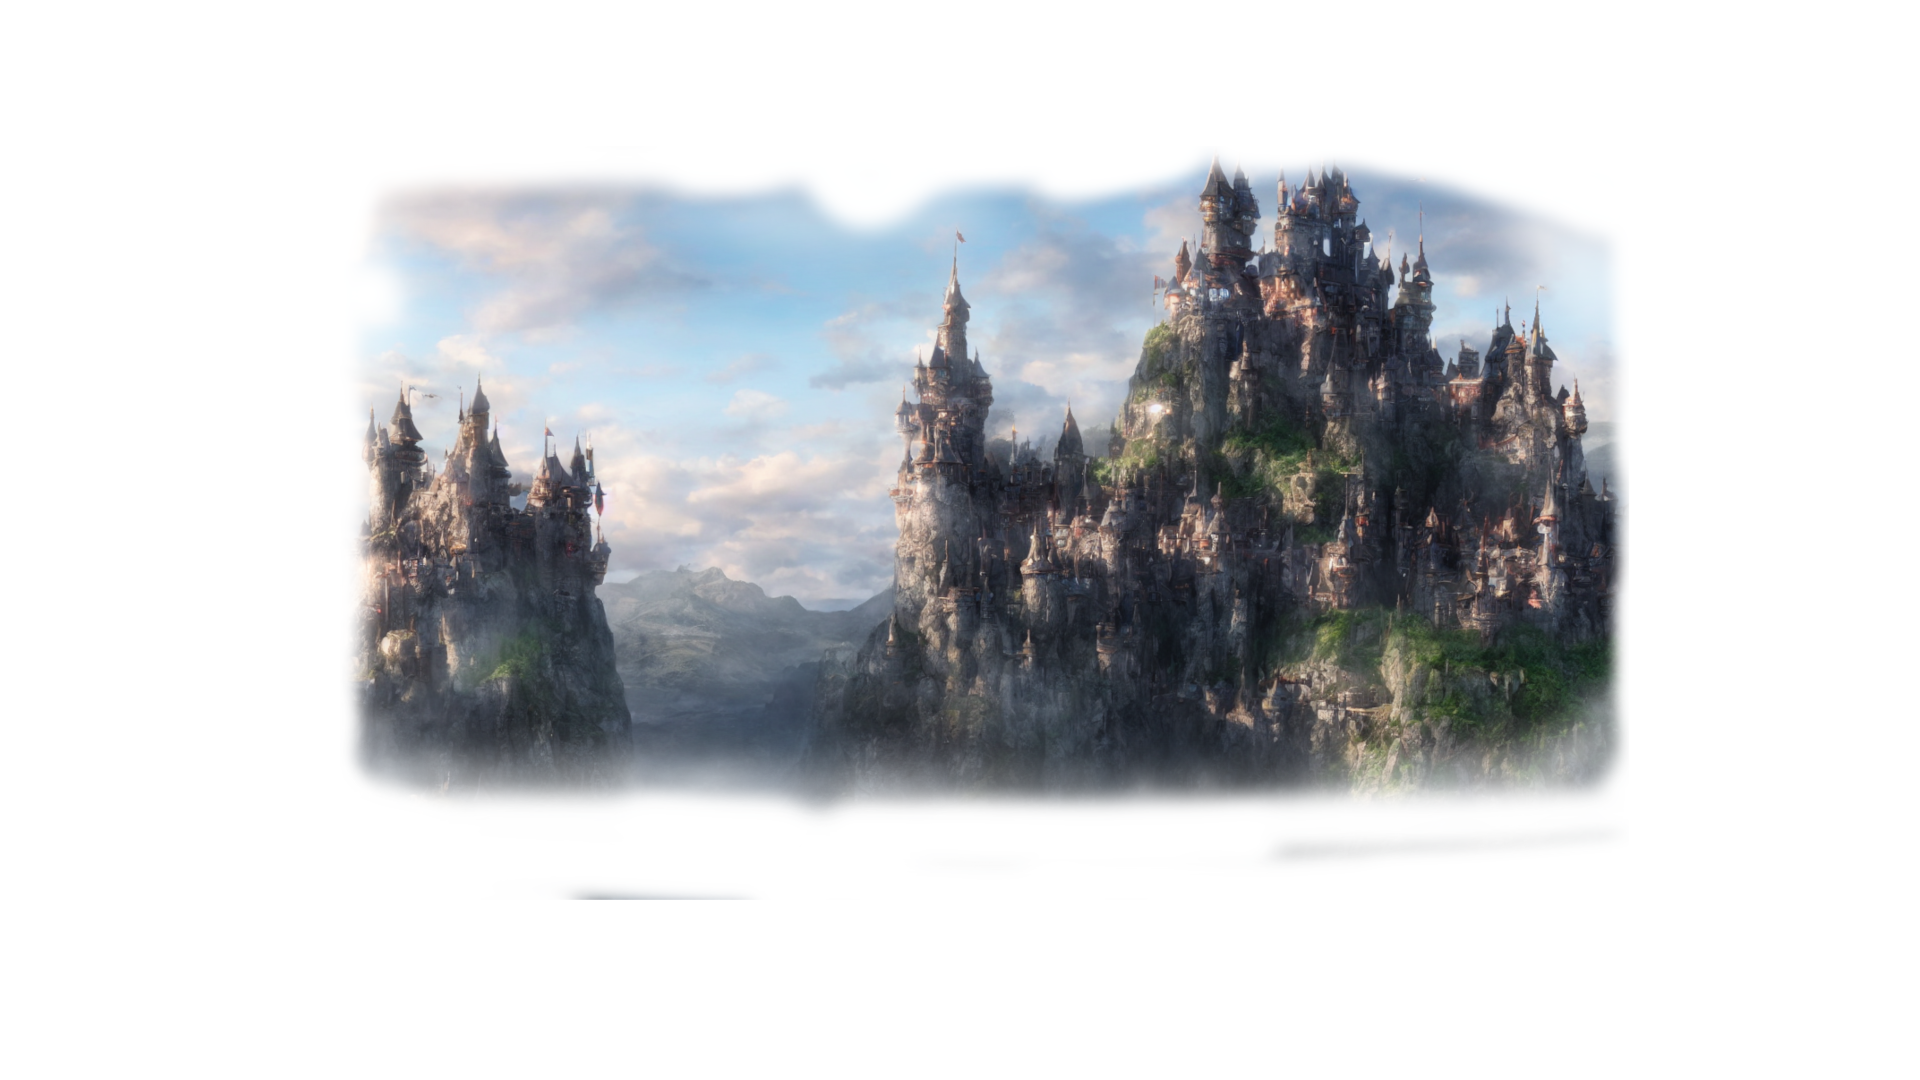
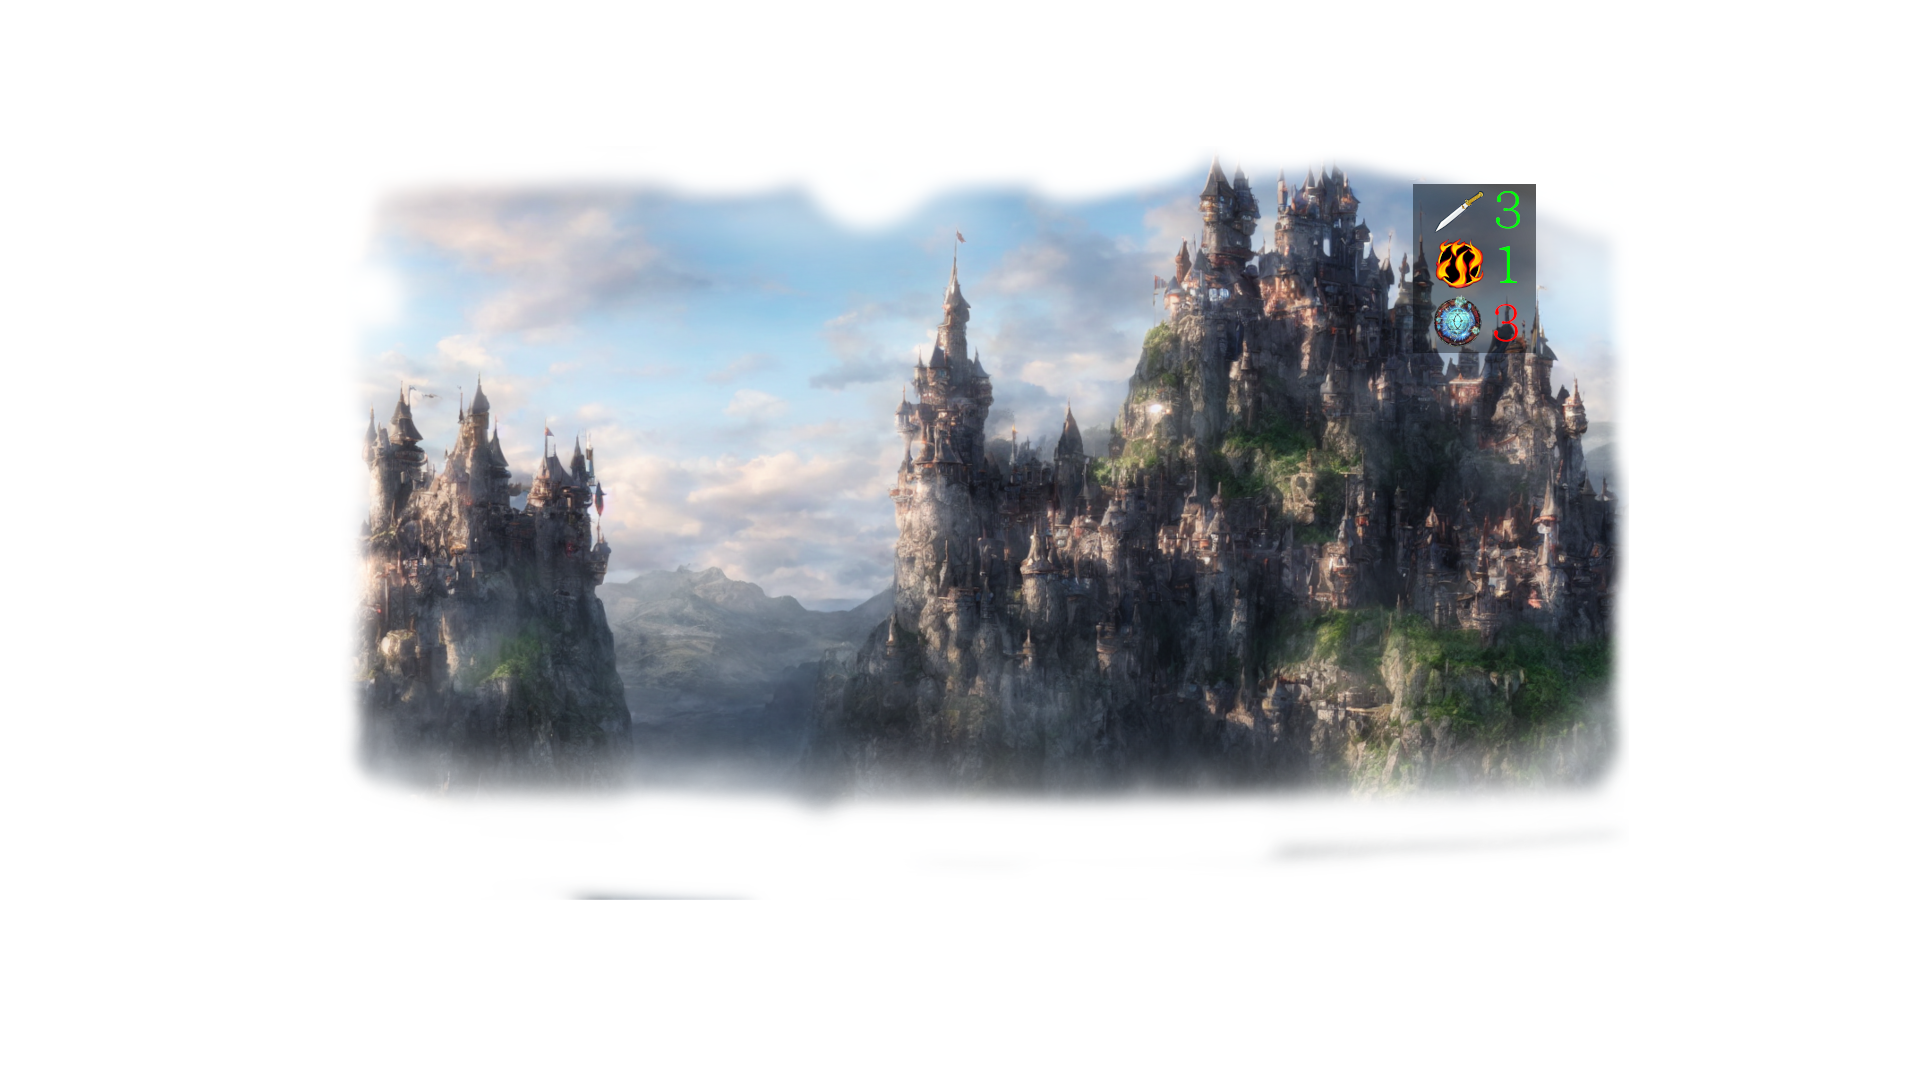
The computer now has cards. Some debug options were implemented to show card's porterties and the computer's cards

Changed region(s): [[0.7188, 0.1528, 0.8125, 0.3361]]

diff --git a/main.c b/main.c
@@ -29,6 +29,12 @@ typedef struct Card {
     bool played;
     int rarity;
     int cast;
+    int strength;
+    int fire;
+    int magic;
+    int defence;
+    int fire_defence;
+    int magic_defence;
 } Card;
 
 //------------------------------------------------------------------------------------
@@ -41,13 +47,16 @@ const float heightOfCards = 214.0f;
 const float widthOfCards = 131.0f;
 Card cardCollection[21]; // This variable contains all cards
 
-void initializeCards(Card *, int, Card *);
-void randomSelectDeckCards(Card *, int);
+void initializeCards(Card *, Card *, int, Card *);
+void setCastProperties();
+void randomSelectDeckCards(Card *, Card *, int);
 void resetCardPositionAndSize(Card *, int);
 int drawPlayerHand(Card *, int); // Maybe use variable names here to make the code different?
 bool drawHoverOverCards(Card, float);
 void reorganizeCardsInHand(Card *, int);
 void drawPlayedCards(Card *, int);
+void displayCardProperties(Card);
+void displayComputersCards(Card *, int);
 
 int main(void)
 {
@@ -102,7 +111,7 @@ int main(void)
     // Rarity 1: gray, 2: green, 3: blue, 4: purple, 5: gold, 6: hero
     // Casts: 1: ghost, 2: knight, 3: ork, 4: wizard, 5: hero
     Texture2D logoScreenTexture = LoadTexture("images/misc/loading_screen.png");
-
+    Texture2D menuTexture = LoadTexture("images/background_map/menu.png");
     // Setting up variables for the background
     Texture2D backgroundTexture = LoadTexture("images/background_map/background.png");
     Rectangle backgroundSrcRec = (Rectangle){
@@ -125,12 +134,12 @@ int main(void)
     // Setting up background music
     Music music = LoadMusicStream("audio/background_music.mp3");
 
-    Card cardsOfPlayer[numberOfCards];
+    Card cardsOfPlayer[numberOfCards], cardsOfComputer[numberOfCards];
     Card playedCardsOfPlayer[numberOfCards];
     int numberOfPlayedCards = -1;
 
-    initializeCards(cardsOfPlayer, numberOfCards, playedCardsOfPlayer);
-    randomSelectDeckCards(cardsOfPlayer, numberOfCards);
+    initializeCards(cardsOfPlayer, cardsOfComputer, numberOfCards, playedCardsOfPlayer);
+    randomSelectDeckCards(cardsOfPlayer, cardsOfComputer, numberOfCards);
 
     SetTargetFPS(60);               // Set desired framerate (frames-per-second)
     //--------------------------------------------------------------------------------------
@@ -206,9 +215,7 @@ int main(void)
                 case TITLE:
                 {
                     // TODO: Draw TITLE screen here!
-                    DrawRectangle(0, 0, screenWidth, screenHeight, GREEN);
-                    DrawText("TITLE SCREEN", 20, 20, 40, DARKGREEN);
-                    DrawText("PRESS ENTER or TAP to JUMP to GAMEPLAY SCREEN", 120, 220, 20, DARKGREEN);
+                    DrawTexturePro(menuTexture, backgroundSrcRec, backgroundDestRec, backgroundOrigin, 0.0f, WHITE);
 
                 } break;
                 case GAMEPLAY:
@@ -216,6 +223,7 @@ int main(void)
                     // TODO: Draw the hand of the player with this function
                     DrawTexturePro(backgroundTexture, backgroundSrcRec, backgroundDestRec, backgroundOrigin, 0.0f, WHITE);
                     DrawTexturePro(mapTexture, backgroundSrcRec, backgroundDestRec, backgroundOrigin, 0.0f, WHITE);
+                    displayComputersCards(cardsOfComputer, numberOfCards);
                     int selected_card = drawPlayerHand(cardsOfPlayer, numberOfCardsInPlayerHand);
                     if(selected_card > -1){
                         // If the selected cards was clicked, decrease the value of the number of cards in the player's hand
@@ -268,7 +276,7 @@ int main(void)
     return 0;
 }
 
-void initializeCards(Card *cardsOfPlayer, int numberOfCards, Card *playedCardsOfPlayer){
+void initializeCards(Card *cardsOfPlayer, Card *cardsOfComputer, int numberOfCards, Card *playedCardsOfPlayer){
     int index = 0;
     // Loading the textures of the cards
     for(int rarity = 1; rarity <= 5; rarity++){
@@ -318,16 +326,208 @@ void initializeCards(Card *cardsOfPlayer, int numberOfCards, Card *playedCardsOf
     {
         // Initializing every card as unplayed (just in case)
         cardsOfPlayer[i].played = false;
+        cardsOfComputer[i].played = false;
         playedCardsOfPlayer[i].played = false;
     }
-    
+    setCastProperties(numberOfCards);
 }
 
-void randomSelectDeckCards(Card *cardsOfPlayer, int numberOfCards){
+void setCastProperties(){
+    // Initializing the properties of the cards
+    // Gray ghost
+    cardCollection[0].strength = 0;
+    cardCollection[0].fire = 6;
+    cardCollection[0].magic = 3;
+    cardCollection[0].defence = 0;
+    cardCollection[0].fire_defence = 6;
+    cardCollection[0].magic_defence = 1;
+    // Gray knight
+    cardCollection[1].strength = 6;
+    cardCollection[1].fire = 1;
+    cardCollection[1].magic = 0;
+    cardCollection[1].defence = 6;
+    cardCollection[1].fire_defence = 1;
+    cardCollection[1].magic_defence = 0;
+    // Gray orc
+    cardCollection[2].strength = 4;
+    cardCollection[2].fire = 2;
+    cardCollection[2].magic = 1;
+    cardCollection[2].defence = 4;
+    cardCollection[2].fire_defence = 0;
+    cardCollection[2].magic_defence = 1;
+    // Gray wizard
+    cardCollection[3].strength = 0;
+    cardCollection[3].fire = 3;
+    cardCollection[3].magic = 6;
+    cardCollection[3].defence = 0;
+    cardCollection[3].fire_defence = 1;
+    cardCollection[3].magic_defence = 6;
+
+    // Green ghost
+    cardCollection[4].strength = 0;
+    cardCollection[4].fire = 7;
+    cardCollection[4].magic = 4;
+    cardCollection[4].defence = 0;
+    cardCollection[4].fire_defence = 7;
+    cardCollection[4].magic_defence = 2;
+    // Green knight
+    cardCollection[5].strength = 7;
+    cardCollection[5].fire = 1;
+    cardCollection[5].magic = 0;
+    cardCollection[5].defence = 7;
+    cardCollection[5].fire_defence = 1;
+    cardCollection[5].magic_defence = 0;
+    // Green orc
+    cardCollection[6].strength = 5;
+    cardCollection[6].fire = 3;
+    cardCollection[6].magic = 2;
+    cardCollection[6].defence = 5;
+    cardCollection[6].fire_defence = 0;
+    cardCollection[6].magic_defence = 2;
+    // Green wizard
+    cardCollection[7].strength = 0;
+    cardCollection[7].fire = 4;
+    cardCollection[7].magic = 7;
+    cardCollection[7].defence = 0;
+    cardCollection[7].fire_defence = 2;
+    cardCollection[7].magic_defence = 7;
+
+    // Blue ghost
+    cardCollection[8].strength = 0;
+    cardCollection[8].fire = 8;
+    cardCollection[8].magic = 5;
+    cardCollection[8].defence = 0;
+    cardCollection[8].fire_defence = 8;
+    cardCollection[8].magic_defence = 2;
+    // Blue knight
+    cardCollection[9].strength = 8;
+    cardCollection[9].fire = 1;
+    cardCollection[9].magic = 0;
+    cardCollection[9].defence = 8;
+    cardCollection[9].fire_defence = 1;
+    cardCollection[9].magic_defence = 0;
+    // Blue orc
+    cardCollection[10].strength = 6;
+    cardCollection[10].fire = 4;
+    cardCollection[10].magic = 3;
+    cardCollection[10].defence = 6;
+    cardCollection[10].fire_defence = 0;
+    cardCollection[10].magic_defence = 3;
+    // Blue wizard
+    cardCollection[11].strength = 0;
+    cardCollection[11].fire = 5;
+    cardCollection[11].magic = 8;
+    cardCollection[11].defence = 0;
+    cardCollection[11].fire_defence = 2;
+    cardCollection[11].magic_defence = 8;
+
+    // Purple ghost
+    cardCollection[12].strength = 0;
+    cardCollection[12].fire = 9;
+    cardCollection[12].magic = 6;
+    cardCollection[12].defence = 0;
+    cardCollection[12].fire_defence = 9;
+    cardCollection[12].magic_defence = 3;
+    // Purple knight
+    cardCollection[13].strength = 9;
+    cardCollection[13].fire = 2;
+    cardCollection[13].magic = 0;
+    cardCollection[13].defence = 9;
+    cardCollection[13].fire_defence = 2;
+    cardCollection[13].magic_defence = 1;
+    // Purple orc
+    cardCollection[14].strength = 7;
+    cardCollection[14].fire = 5;
+    cardCollection[14].magic = 4;
+    cardCollection[14].defence = 7;
+    cardCollection[14].fire_defence = 1;
+    cardCollection[14].magic_defence = 4;
+    // Purple wizard
+    cardCollection[15].strength = 0;
+    cardCollection[15].fire = 6;
+    cardCollection[15].magic = 9;
+    cardCollection[15].defence = 0;
+    cardCollection[15].fire_defence = 3;
+    cardCollection[15].magic_defence = 9;
+
+    // Gold ghost
+    cardCollection[16].strength = 0;
+    cardCollection[16].fire = 10;
+    cardCollection[16].magic = 7;
+    cardCollection[16].defence = 0;
+    cardCollection[16].fire_defence = 10;
+    cardCollection[16].magic_defence = 3;
+    // Gold knight
+    cardCollection[17].strength = 10;
+    cardCollection[17].fire = 2;
+    cardCollection[17].magic = 1;
+    cardCollection[17].defence = 10;
+    cardCollection[17].fire_defence = 2;
+    cardCollection[17].magic_defence = 2;
+    // Gold orc
+    cardCollection[18].strength = 8;
+    cardCollection[18].fire = 6;
+    cardCollection[18].magic = 5;
+    cardCollection[18].defence = 8;
+    cardCollection[18].fire_defence = 2;
+    cardCollection[18].magic_defence = 5;
+    // Gold wizard
+    cardCollection[19].strength = 0;
+    cardCollection[19].fire = 7;
+    cardCollection[19].magic = 10;
+    cardCollection[19].defence = 0;
+    cardCollection[19].fire_defence = 3;
+    cardCollection[19].magic_defence = 10;
+
+    // Hero
+    cardCollection[20].strength = 10;
+    cardCollection[20].fire = 10;
+    cardCollection[20].magic = 10;
+    cardCollection[20].defence = 10;
+    cardCollection[20].fire_defence = 10;
+    cardCollection[20].magic_defence = 10;
+}
+
+void displayCardProperties(Card cardToDisplay){
+    // This function is to display the given card's properties for debug purposes
+    DrawText(TextFormat("Strength: %d", cardToDisplay.strength), 0, 0, 30, RED);
+    DrawText(TextFormat("Fire: %d", cardToDisplay.fire), 0, 30, 30, RED);
+    DrawText(TextFormat("Magic: %d", cardToDisplay.magic), 0, 60, 30, RED);
+    DrawText(TextFormat("Defence: %d", cardToDisplay.defence), 0, 90, 30, RED);
+    DrawText(TextFormat("Fire defence: %d", cardToDisplay.fire_defence), 0, 120, 30, RED);
+    DrawText(TextFormat("Magic defence: %d", cardToDisplay.magic_defence), 0, 150, 30, RED);
+}
+
+void displayComputersCards(Card *cardsOfComputer, int numberOfCards){
+    // FOR DEBUG PURPOSES
+    // Draw the computer's cards
+    for(int i = 0; i < numberOfCards; i++){
+        cardsOfComputer[i].outline.y = 0.0f;
+        cardsOfComputer[i].outline.x = (float) i * widthOfCards + 500.0f;
+        DrawTexturePro(cardsOfComputer[i].texture, cardsOfComputer[i].source, cardsOfComputer[i].outline, cardsOfComputer[i].origin, 0.0f, WHITE);
+    }
+}
+
+void randomSelectDeckCards(Card *cardsOfPlayer, Card *cardsOfComputer, int numberOfCards){
+    int sumOfPlayerCards = 0, sumOfComputerCards = 0;
+    // Select cards for the player
     for(int i = 0; i < numberOfCards; i++){
         // The rarest card it can draw is blue
         int randomIndex = rand() % 12;
         cardsOfPlayer[i] = cardCollection[randomIndex];
+        // We calculate the sum of the rarity of the player's deck so the AI could have a deck with the same weight
+        sumOfPlayerCards += cardsOfPlayer[i].rarity;
+    }
+
+    // Select cards with equal sum for the AI
+    while(sumOfComputerCards != sumOfPlayerCards){
+        sumOfComputerCards = 0;
+        for(int i = 0; i < numberOfCards; i++){
+            // The rarest card it can draw is blue
+            int randomIndex = rand() % 12;
+            cardsOfComputer[i] = cardCollection[randomIndex];
+            sumOfComputerCards += cardsOfComputer[i].rarity;
+        }
     }
 }
 
@@ -410,6 +610,8 @@ bool drawHoverOverCards(Card cardToDraw, float rotation){
     cardToDraw.outline.width = 1.4f * widthOfCards;
     cardToDraw.outline.height = 1.4f * heightOfCards;
     DrawTexturePro(cardToDraw.texture, cardToDraw.source, cardToDraw.outline, cardToDraw.origin, rotation, WHITE);
+    // THIS IS ONLY NEEDED FOR DEBUG PURPOSES
+    displayCardProperties(cardToDraw);
     // If the player presses the left mouse button while the card is selected, the card is played
     if(IsMouseButtonPressed(MOUSE_BUTTON_LEFT)) {
         return true;
